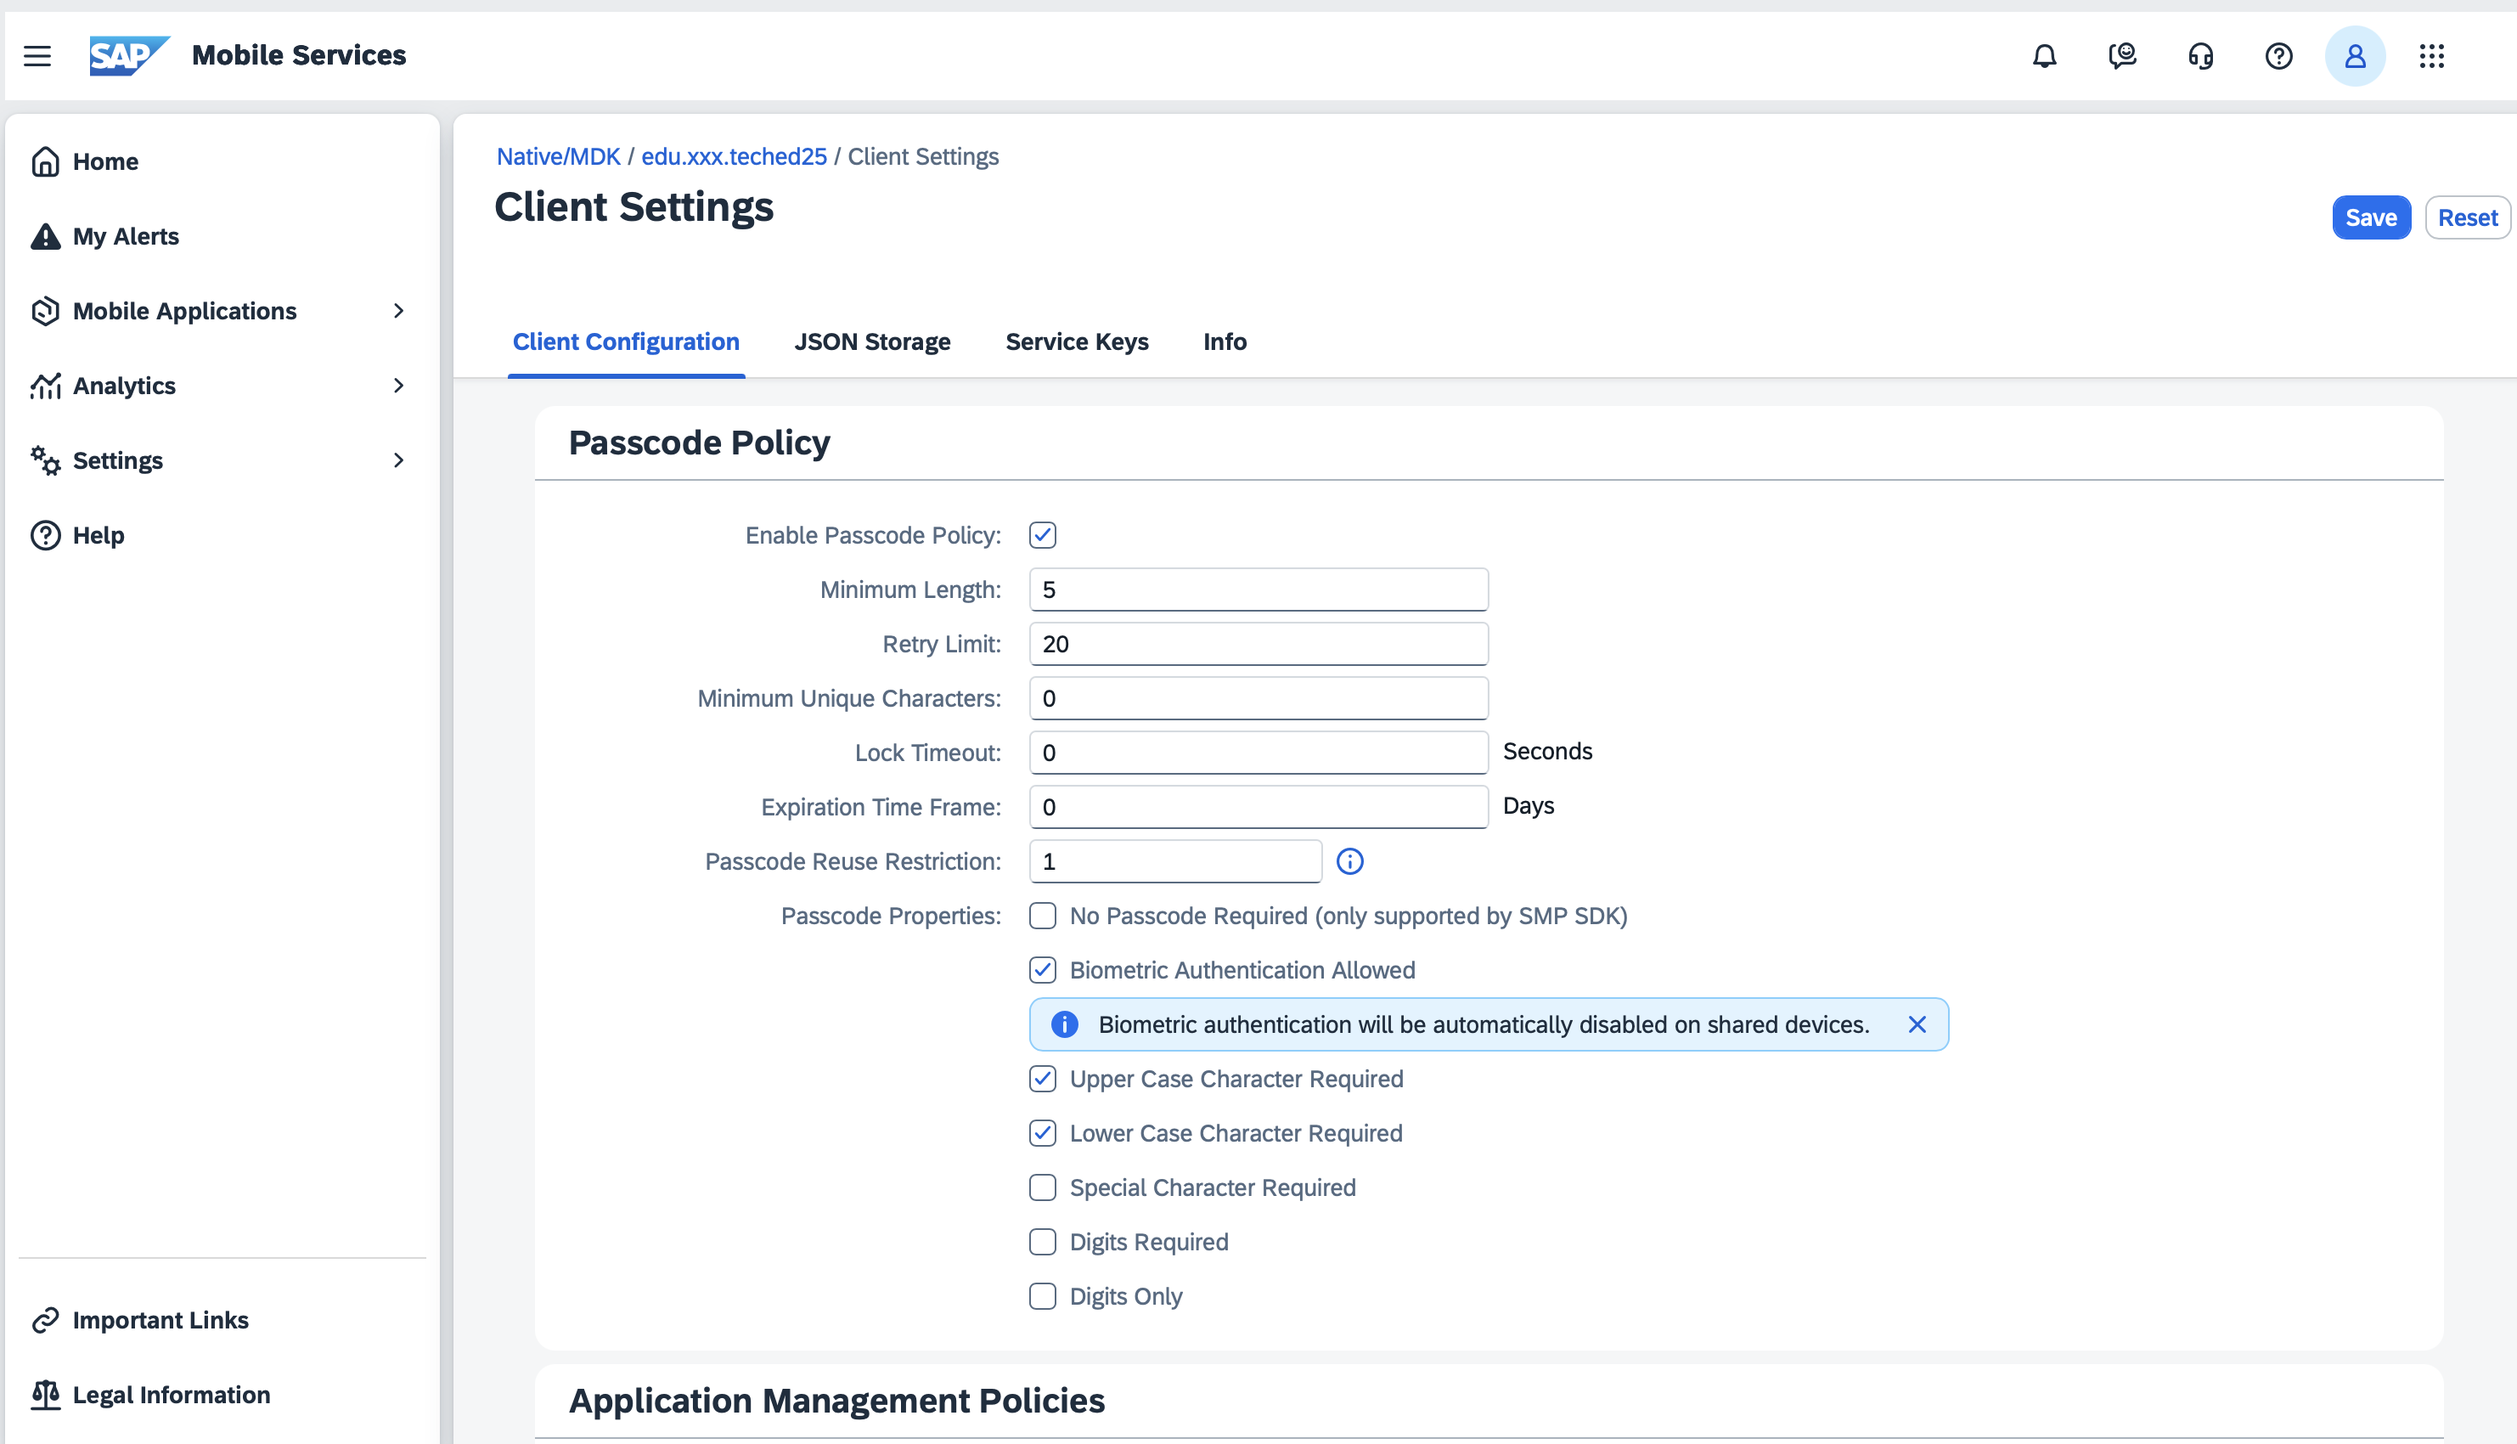
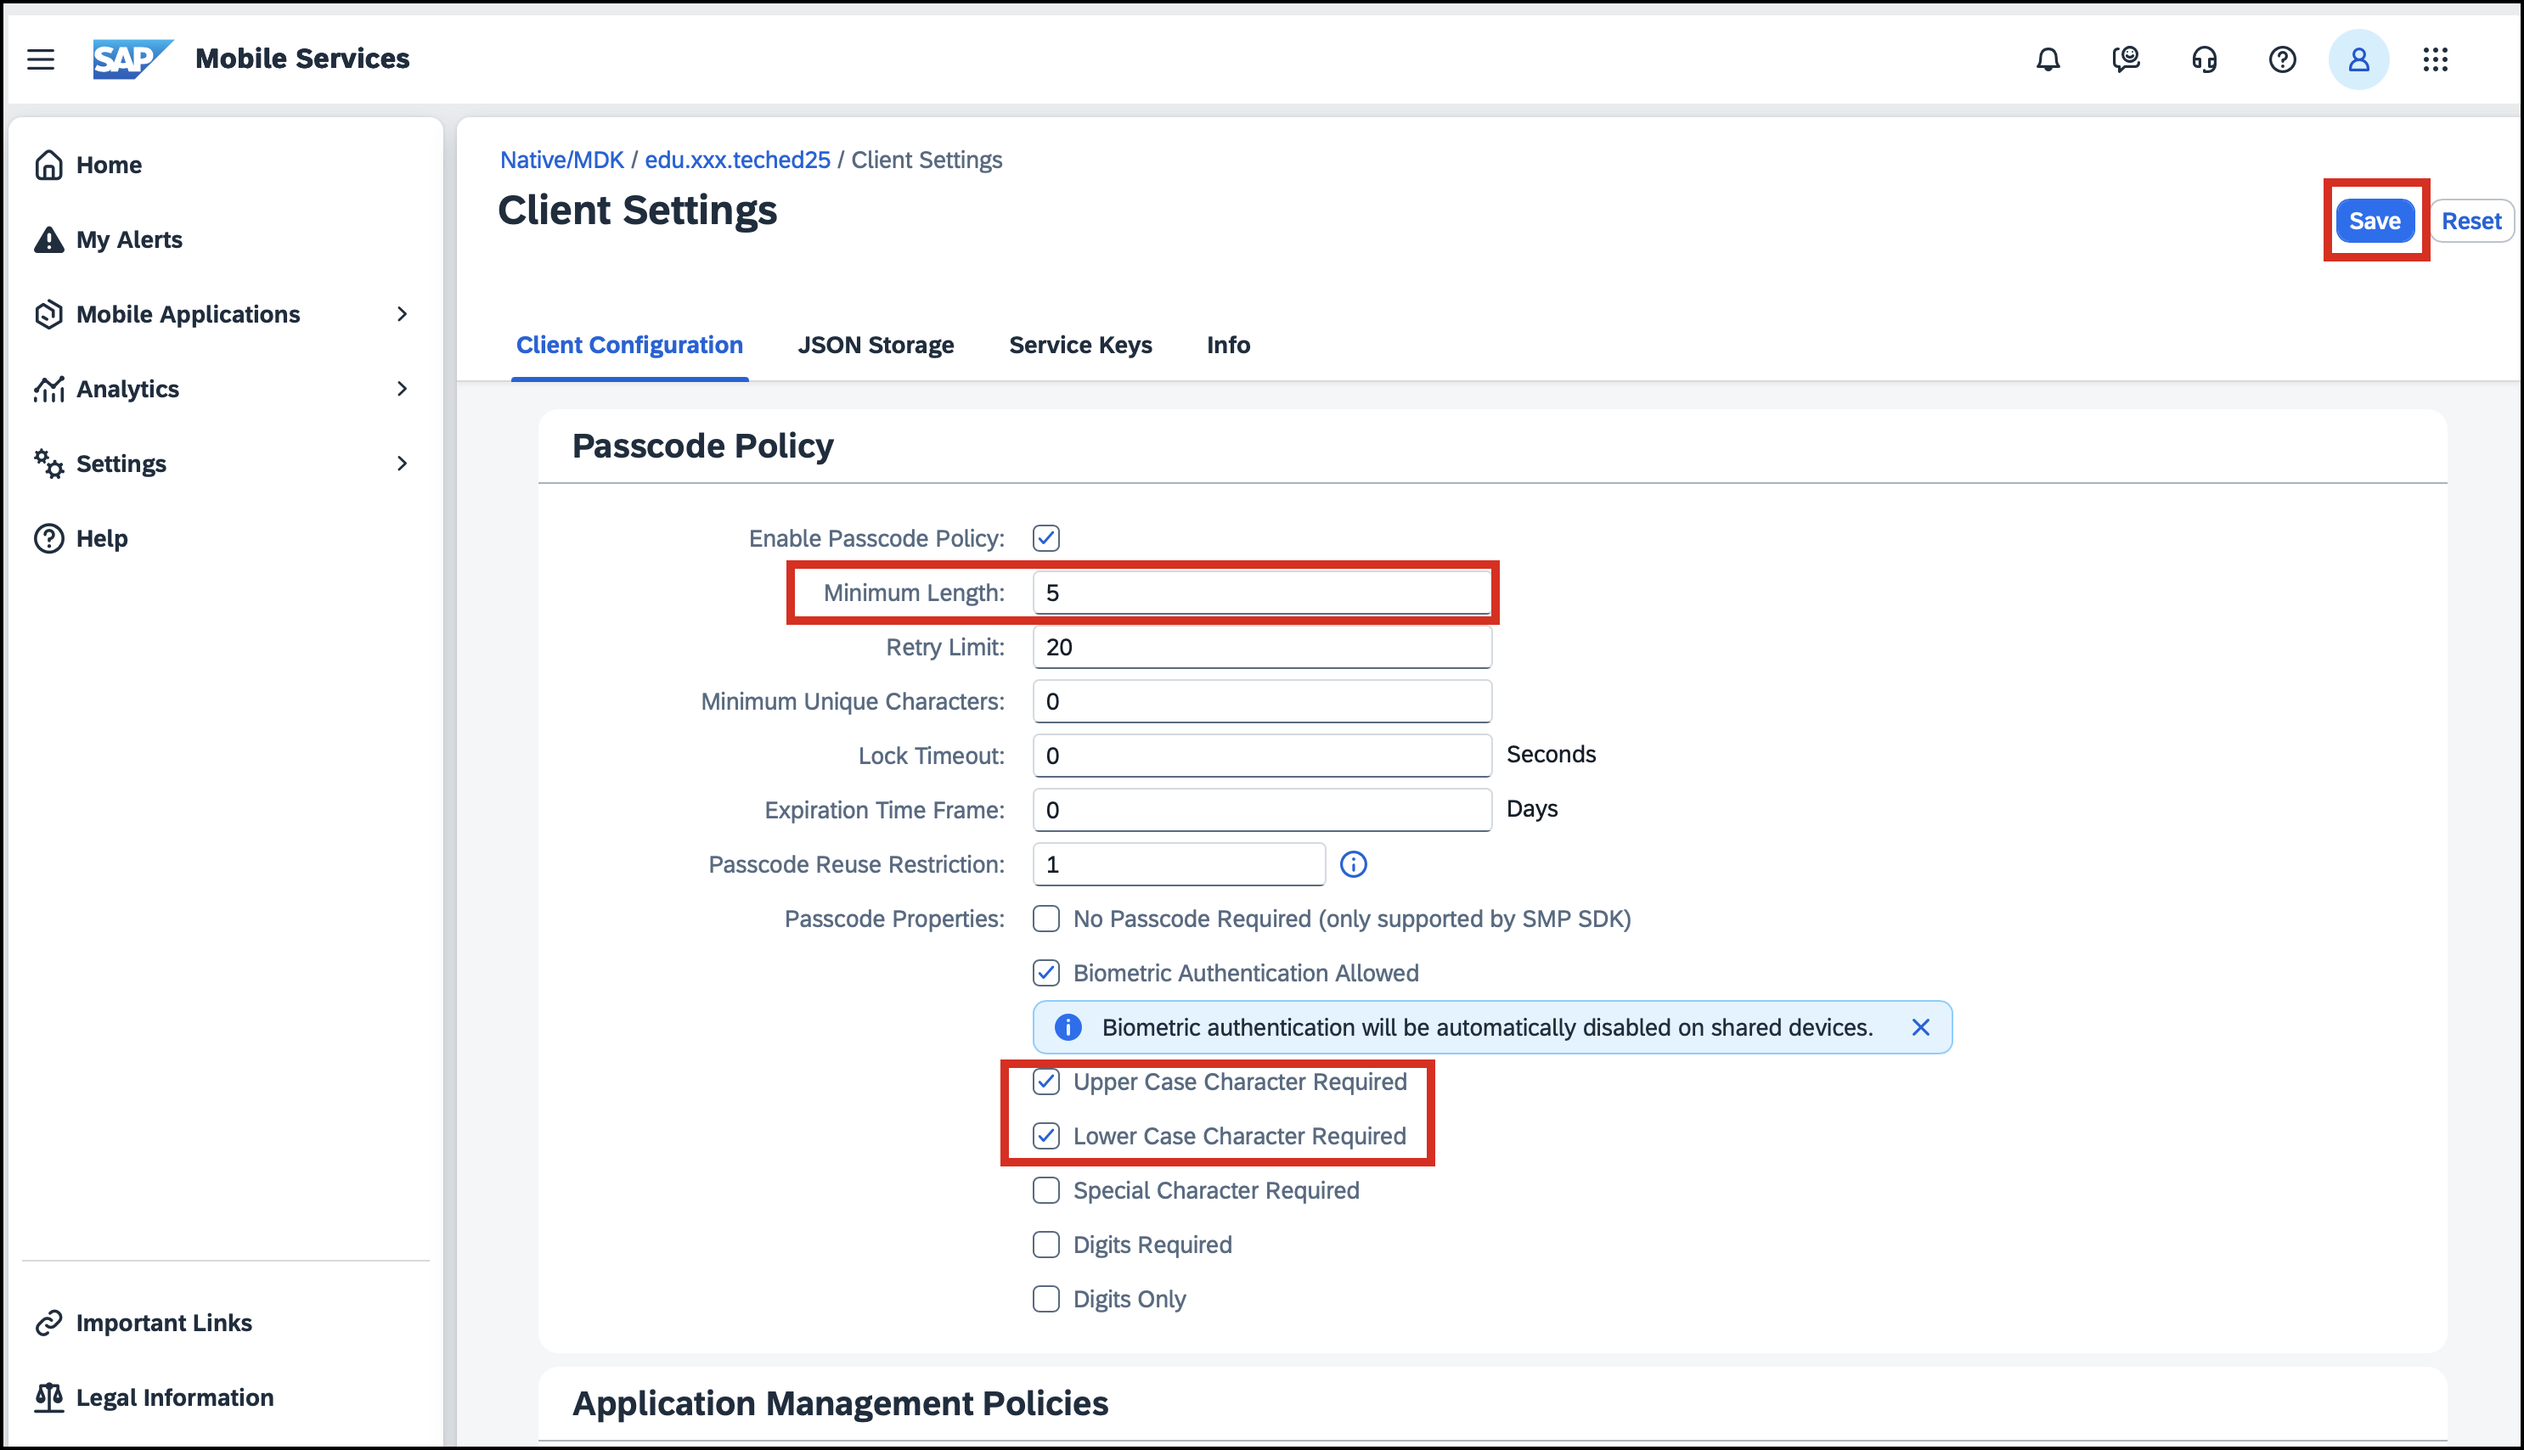
Update ex5 README and add new visual aids
Enhanced the exercises/ex5/README.md with improved instructions and tips, and restructured steps using visual aid tables. Added new images and GIFs for passcode and revoke actions on both iOS and Android, as well as cockpit screenshots to better illustrate the steps.

diff --git a/exercises/ex5/README.md b/exercises/ex5/README.md
@@ -21,8 +21,8 @@ In this exercise, you will use J4C to assist you with administration activities.
 
       > | Actions | Visual Aid |
       > |-----------|--------|
-      > | 1. Open the [Mobile Services Cockpit](https://mobile-service-cockpit-web.cfapps.eu10.hana.ondemand.com/logincfapi/index.html) and log in if required.<br>2. Open your app **edu.xxx.teched25**.<br>3. Open **Client Settings**.<br>4. Change *Minimum Length* to **5**.<br>5. Enable *Upper Case Character Required* & *Lower Case Character Required*.<br>6. Click **Save**. | <img src="images/cockpit-passcode.png" alt="Android Offline" width="800" /> |
-      > | 7. On your phone, kill and relaunch your app a couple of times to force the update. <br> 8. On your device, you’ll be notified that the Passcode Policy has changed. <br> 9. Confirm your current passcode <br> 9. Set a new passcode following the updated policy. | <img src="images/ios-passcode.gif" alt="iOS Offline" height="400" /> <img src="images/android-passcode.gif" alt="Android Offline" height="400" /> |
+      > | 1. Open the [Mobile Services Cockpit](https://mobile-service-cockpit-web.cfapps.eu10.hana.ondemand.com/logincfapi/index.html) and log in if required.<br>2. Open your app **edu.xxx.teched25**.<br>3. Open **Client Settings**.<br>4. Change *Minimum Length* to **5**.<br>5. Enable *Upper Case Character Required* & *Lower Case Character Required*.<br>6. Click **Save**. | <img src="images/cockpit-passcode.png" alt="Android Offline" width="800" /> <br> *Tip: Click on the image to enlarge, then use your browser’s back button to return.* |
+      > | 7. On your phone, kill and relaunch your app a couple of times to force the update. <br> 8. On your device, you’ll be notified that the Passcode Policy has changed. <br> 9. Confirm your current passcode <br> 9. Set a new passcode following the updated policy. | <img src="images/ios-passcode.gif" alt="iOS Offline" height="400" /> <img src="images/android-passcode.gif" alt="Android Offline" height="400" /> <br> *Note: Passcode screens don’t appear in the Android GIF because the OS automatically hides sensitive screens for security.* <br> *Tip: Click a GIF to enlarge, then use your browser’s back button to return.* |
 
 ## Exercise 5.2 User and Device Management
 
@@ -36,12 +36,11 @@ In this exercise, you will use J4C to assist you with administration activities.
 3. Follow the steps mentioned by J4C.  
 
    > Since we have a monthly cloud shipment, J4C may not have the latest information. In case you notice any discrepancy, please request assistance from the speaker. Alternatively, use the following steps to revoke access:  
-   > 1. Open the [Mobile Services Cockpit](https://mobile-service-cockpit-web.cfapps.eu10.hana.ondemand.com/logincfapi/index.html) and log in if required.  
-   > 2. Open your app **edu.xxx.teched25**.  
-   > 3. Navigate to **Users and Devices Management**.  
-   > 4. Select one or more users and revoke access.  
-   > 5. Kill and relaunch your app a couple of times to force the update, or tap **Sync Changes** in the app.  
-   > 6. On your device, you will be forced to re-authenticate. Without completing it, you won’t be able to access the app data.
+   
+      > | Actions | Visual Aid |
+      > |-----------|--------|
+      > | 1. Open the [Mobile Services Cockpit](https://mobile-service-cockpit-web.cfapps.eu10.hana.ondemand.com/logincfapi/index.html) and log in if required.<br>2. Open your app **edu.xxx.teched25**.<br>3. Navigate to **Users and Devices Management**.<br> 4. Select one or more users and revoke access.  | <img src="images/cockpit-revoke.png" alt="Android Offline" width="800" /> <br> *Tip: Click on the image to enlarge, then use your browser’s back button to return.* |
+      > |  5. On your phone, kill and relaunch your app a couple of times to force the update, or tap **Sync Changes** in the app. <br> 6. You will be forced to re-authenticate. Without completing it, you won’t be able to access the app data.| <img src="images/ios-revoke.gif" alt="iOS Offline" height="400" /> <img src="images/android-revoke.gif" alt="Android Offline" height="400" /> <br> *Tip: Click a GIF to enlarge, then use your browser’s back button to return.* |
 
 ## Summary
 
